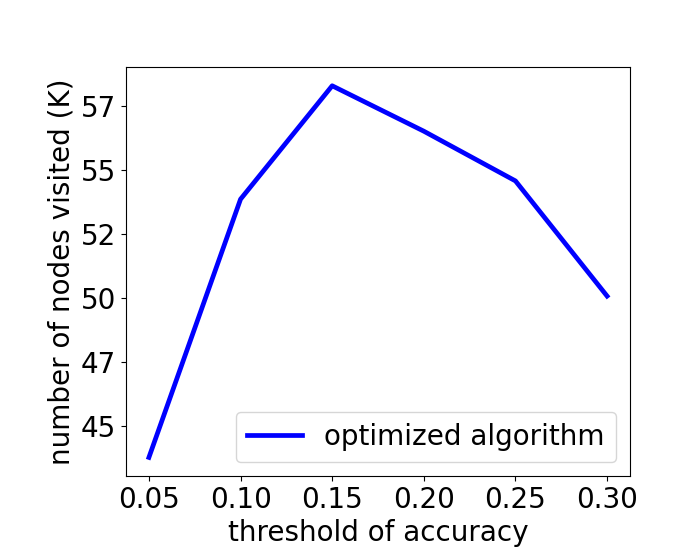
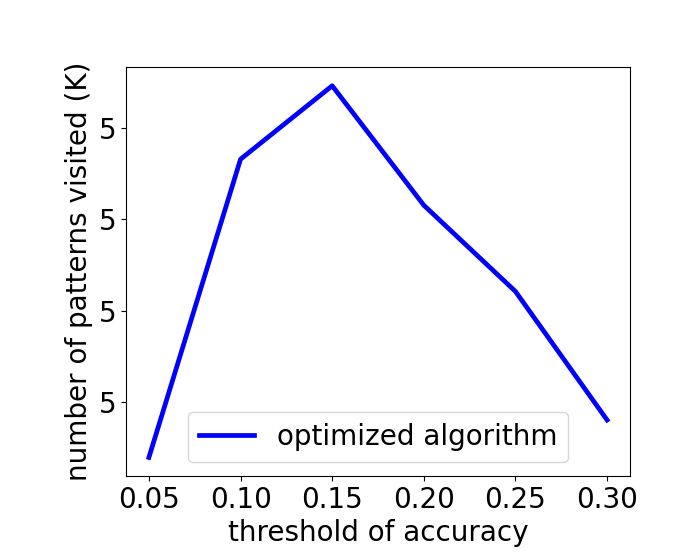
low acc, compas, tha

diff --git a/Coding/Experiments/AccuracyFairness/CompasData/Tha_2_20210629.py b/Coding/Experiments/AccuracyFairness/CompasData/Tha_2_20210629.py
@@ -45,8 +45,7 @@ def thousands_formatter(x, pos):
 
 
 
-selected_attributes =['sexC', 'ageC','raceC', 'MC', 'priors_count_C', 'c_charge_degree', 'decile_score', 'c_days_from_compas_C',
- 'juv_fel_count_C', 'juv_misd_count_C', 'juv_other_count_C']
+selected_attributes =['sexC', 'ageC','raceC', 'MC', 'priors_count_C', 'c_charge_degree', 'decile_score']
 
 diff_acc = [0.05, 0.1, 0.15, 0.2, 0.25, 0.3]
 
@@ -132,7 +131,7 @@ for n in range(len(diff_acc)):
 plt.plot(diff_acc, execution_time, label="optimized algorithm", color='blue', linewidth = 3.4)
 
 
-plt.xlabel('threshold of accuracy')
+plt.xlabel('delta fairness value')
 plt.ylabel('execution time (s)')
 plt.xticks(diff_acc)
 
@@ -145,8 +144,8 @@ plt.show()
 fig, ax = plt.subplots()
 plt.plot(diff_acc, num_calculations, label="optimized algorithm", color='blue', linewidth = 3.4)
 
-plt.xlabel('threshold of accuracy')
-plt.ylabel('number of nodes visited (K)')
+plt.xlabel('delta fairness value')
+plt.ylabel('number of patterns visited (K)')
 ax.yaxis.set_major_formatter(FuncFormatter(thousands_formatter))
 
 

diff --git a/Coding/Experiments/AccuracyFairness/CompasData/Tha.py b/Coding/Experiments/AccuracyFairness/CompasData/Tha.py
@@ -108,7 +108,7 @@ for n in range(len(diff_acc)):
 plt.plot(diff_acc, execution_time, label="new algorithm", color='blue', linewidth = 3.4)
 
 
-plt.xlabel('threshold of accuracy')
+plt.xlabel('delta fairness value')
 plt.ylabel('execution time (s)')
 plt.title('CompasDataset')
 plt.xticks(diff_acc)
@@ -121,7 +121,7 @@ plt.show()
 fig, ax = plt.subplots()
 plt.plot(diff_acc, num_calculations, label="new algorithm", color='blue', linewidth = 3.4)
 
-plt.xlabel('threshold of accuracy')
+plt.xlabel('delta fairness value')
 plt.ylabel('number of cardinality calculations (K)')
 plt.title('CompasDataset')
 ax.yaxis.set_major_formatter(FuncFormatter(thousands_formatter))

diff --git a/Coding/Experiments/AccuracyFairness/CompasData/Tha_1_20210201.py b/Coding/Experiments/AccuracyFairness/CompasData/Tha_1_20210201.py
@@ -121,7 +121,7 @@ for n in range(len(diff_acc)):
 plt.plot(diff_acc, execution_time, label="optimized algorithm", color='blue', linewidth = 3.4)
 
 
-plt.xlabel('threshold of accuracy')
+plt.xlabel('delta fairness value')
 plt.ylabel('execution time (s)')
 plt.xticks(diff_acc)
 
@@ -134,8 +134,8 @@ plt.show()
 fig, ax = plt.subplots()
 plt.plot(diff_acc, num_calculations, label="optimized algorithm", color='blue', linewidth = 3.4)
 
-plt.xlabel('threshold of accuracy')
-plt.ylabel('number of nodes visited (K)')
+plt.xlabel('delta fairness value')
+plt.ylabel('number of patterns visited (K)')
 ax.yaxis.set_major_formatter(FuncFormatter(thousands_formatter))
 
 
